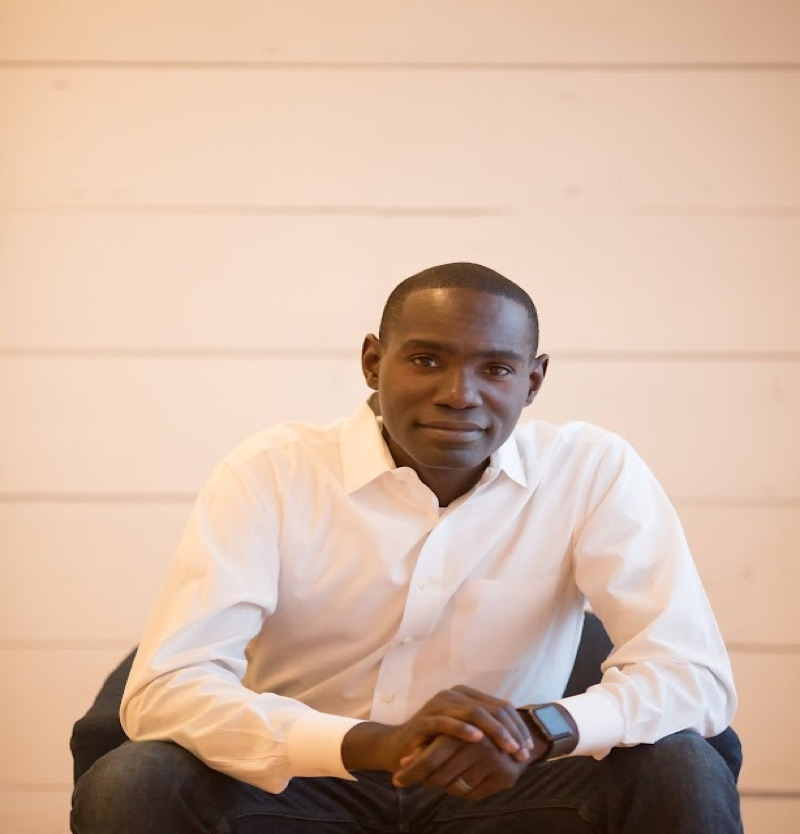
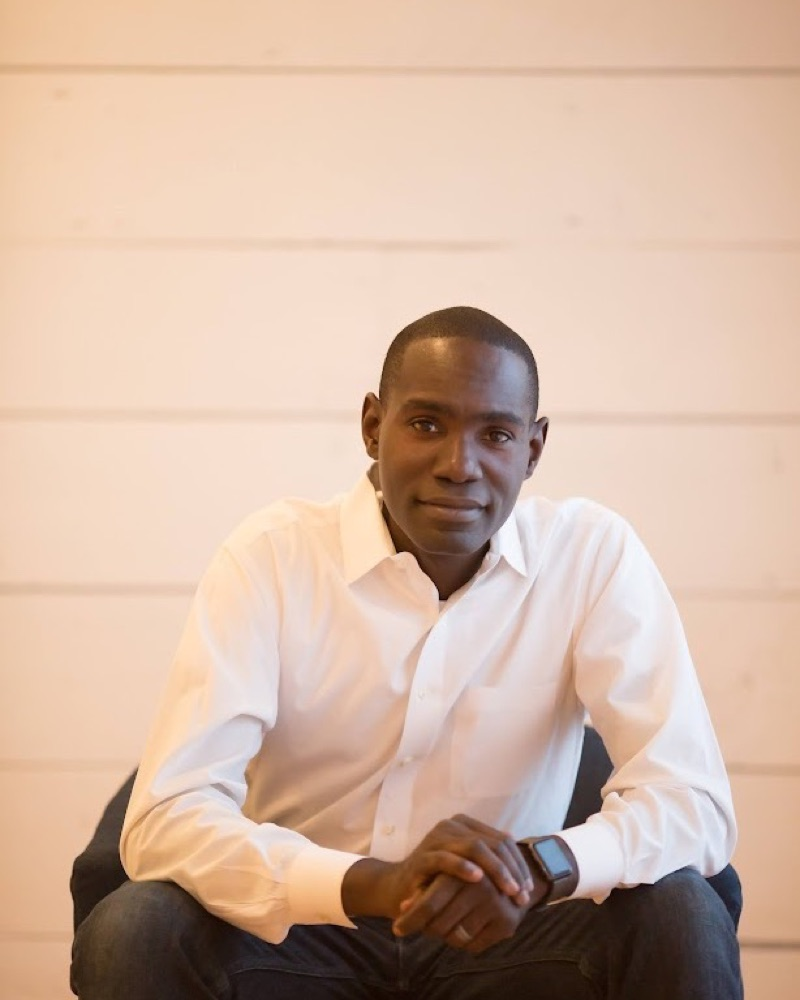
Fix speaker portrait proportions

diff --git a/year-end-speaking.html b/year-end-speaking.html
@@ -38,7 +38,7 @@
 
     <section class="fit section-pad" aria-labelledby="fit-title"><div class="shell"><div class="section-heading reveal"><div><span class="eyebrow">A Fit For</span><h2 id="fit-title">Gatherings meant to recognize people and mark the moment.</h2></div><p>Kevin works with event leaders to select and tailor the theme so it fits the room, the culture, and the reason people are gathering.</p></div><div class="fit-grid"><article class="fit-card"><h3>Holiday Parties</h3><p>An encouraging message that adds meaning without asking people to do more.</p></article><article class="fit-card"><h3>Employee Appreciation</h3><p>A thoughtful way to recognize everyday contributions that are easy to overlook.</p></article><article class="fit-card"><h3>Year-End Gatherings</h3><p>A shared pause to reflect on the year and approach the next one intentionally.</p></article></div></div></section>
 
-    <section class="speaker section-pad" aria-labelledby="speaker-title"><div class="shell speaker-grid"><img class="speaker-photo" src="assets/kevin-speaking.jpg" alt="Kevin Bullard, executive coach and speaker." width="800" height="834"><div class="speaker-copy"><div><span class="eyebrow">About Kevin Bullard</span><h2 id="speaker-title">A practical message delivered with warmth.</h2></div><p>Kevin is the principal of Bullard Business Execution. He brings more than 20 years of experience as a transformational management consultant, chief leadership officer, business owner, and executive advisor.</p><p>His talks help people reflect, take ownership, and leave with an idea they can use—without turning a celebration into another work session.</p></div></div></section>
+    <section class="speaker section-pad" aria-labelledby="speaker-title"><div class="shell speaker-grid"><img class="speaker-photo" src="assets/kevin-speaking.jpg" alt="Kevin Bullard, executive coach and speaker." width="800" height="1000"><div class="speaker-copy"><div><span class="eyebrow">About Kevin Bullard</span><h2 id="speaker-title">A practical message delivered with warmth.</h2></div><p>Kevin is the principal of Bullard Business Execution. He brings more than 20 years of experience as a transformational management consultant, chief leadership officer, business owner, and executive advisor.</p><p>His talks help people reflect, take ownership, and leave with an idea they can use—without turning a celebration into another work session.</p></div></div></section>
 
     <section class="cta section-pad" id="book" aria-labelledby="book-title"><div class="shell reveal"><span class="eyebrow">Know Someone Planning an Event?</span><h2 id="book-title">Share this page or make an introduction.</h2><p>If someone you know is planning a holiday party, appreciation event, or year-end gathering, pass this page along. Kevin would be glad to talk through the audience, event goals, and fit.</p><div class="cta-actions"><a class="button accent" href="https://bbe.ninjapipe.app/book/bbe/edc">Book a Speaking Call</a><a class="button ghost" href="/speaking.html">View All Speaking</a></div></div></section>
   </main>
